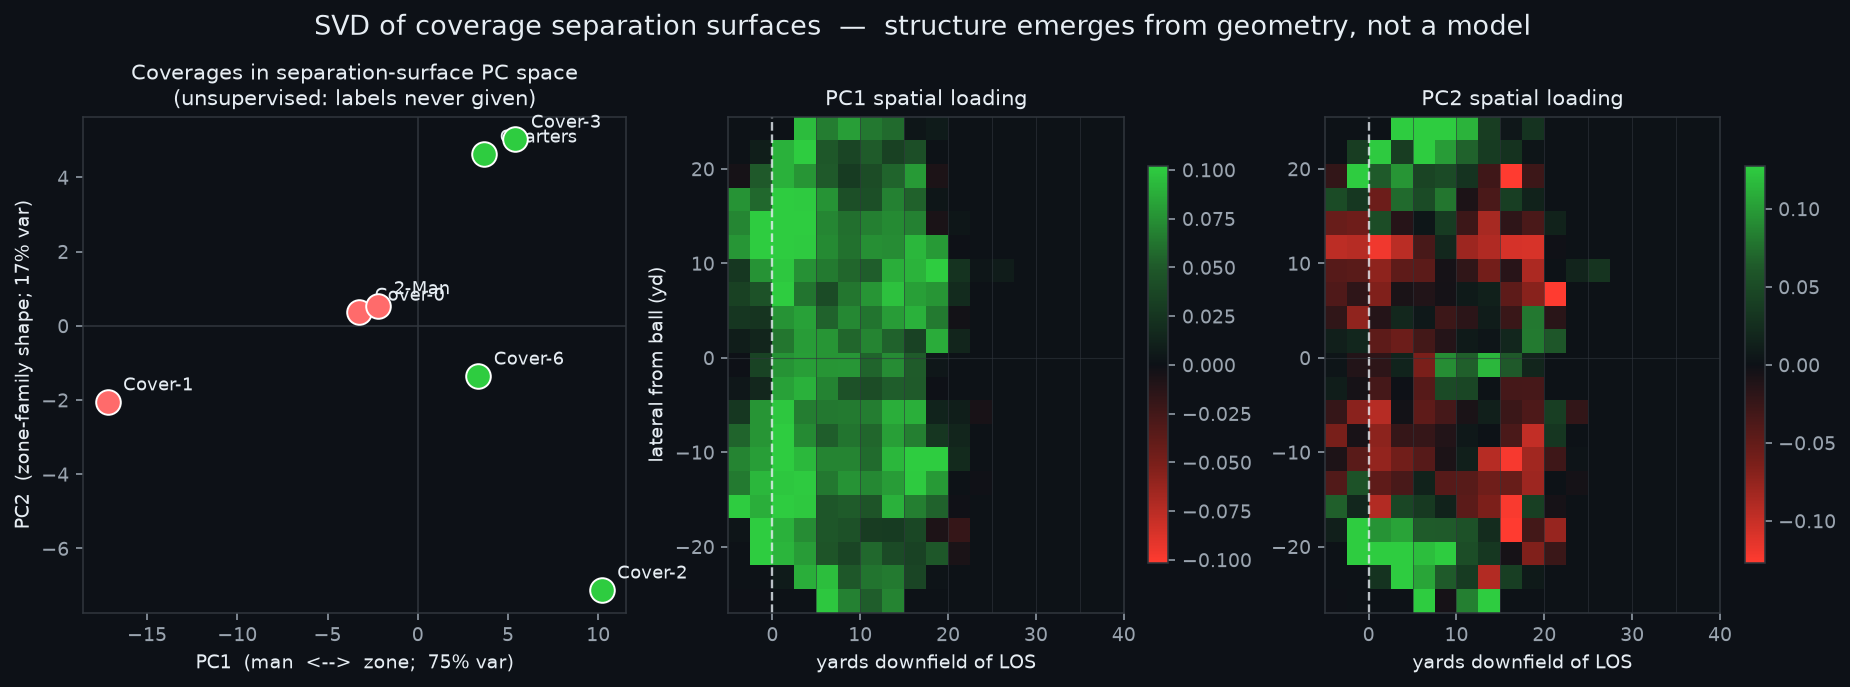
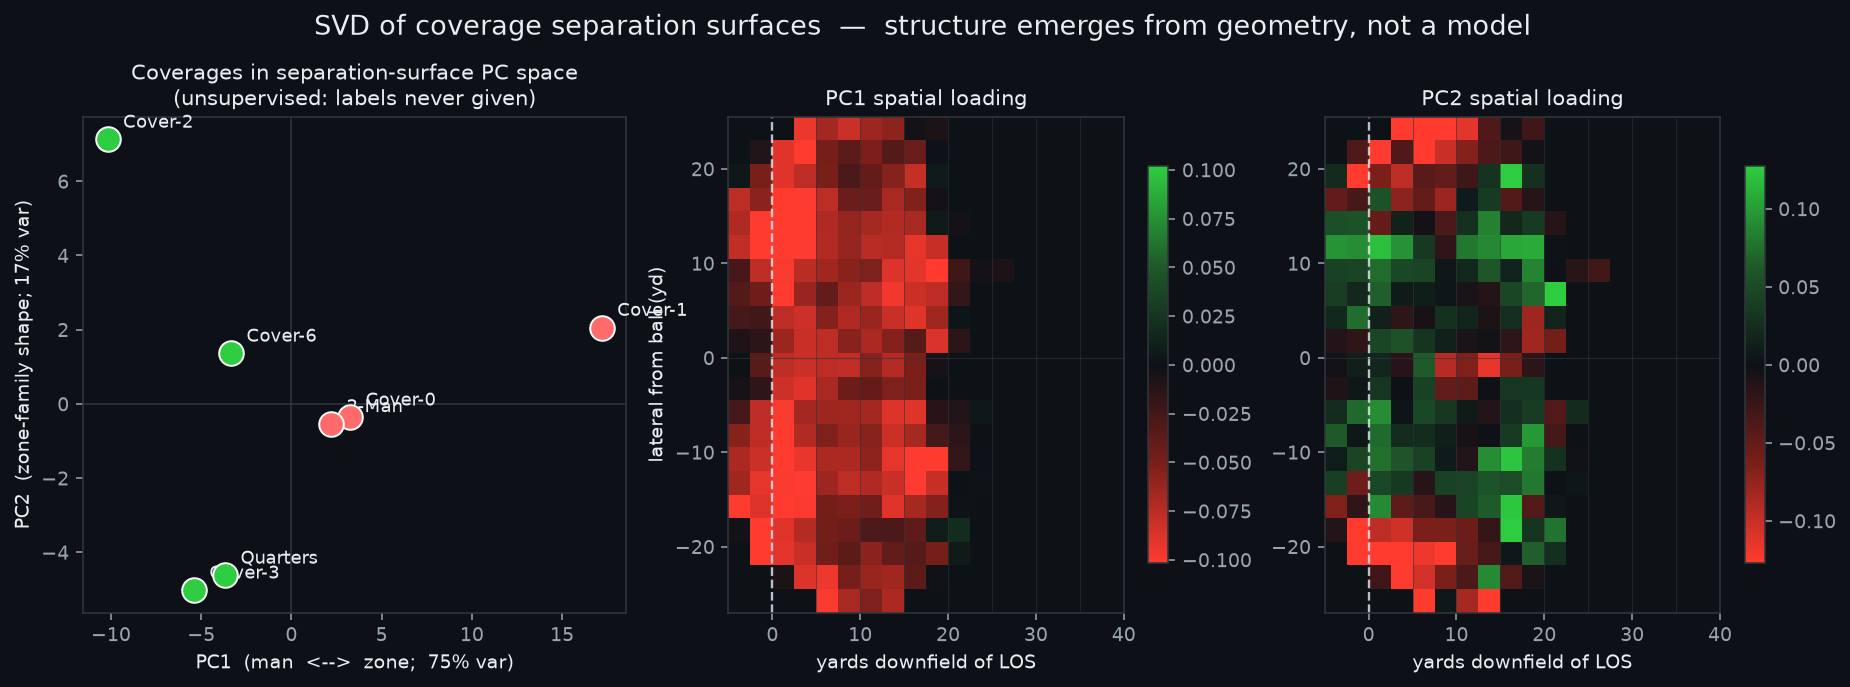
Fix Voronoi area double-count bug (caught by tests); add unit tests; honest UI (remove non-working toggles, add low-sample caveat)
- tests/ : 13 unit tests for geometry + surface metric
- geometry.controlled_area: stop duplicating target player (broke Voronoi partition); tests enforce exact conservation
- regenerated dataset, figures, web assets
- UI: Snap/Throw + unimplemented view modes were dead buttons -> replaced with static labels; added low-sample caveat for thin coverage x position splits

diff --git a/docs/index.html b/docs/index.html
@@ -53,6 +53,11 @@
   .opt.on .tick{background:var(--accent);border-color:var(--accent);
     box-shadow:0 0 0 3px rgba(54,224,122,.14)}
   .row{display:flex;flex-wrap:wrap;gap:6px}
+  .static-val{font-size:13px;font-weight:600;color:var(--ink)}
+  .static-val .hint{display:block;font-size:11px;font-weight:400;color:var(--dim);margin-top:3px;font-family:var(--mono)}
+  .lowsample{margin-top:14px;font-size:11px;color:var(--amber);font-family:var(--mono);
+    display:none;border-left:2px solid var(--amber);padding-left:10px;line-height:1.5}
+  .lowsample.show{display:block}
   .seg{padding:5px 11px;border:1px solid var(--line);border-radius:6px;
     font-size:12px;font-weight:600;color:var(--mut);cursor:pointer;transition:.12s;
     font-family:var(--body)}
@@ -134,10 +139,6 @@
   <!-- SIDEBAR -->
   <aside class="sidebar">
     <div class="grp">
-      <h4>View</h4>
-      <div id="views"></div>
-    </div>
-    <div class="grp">
       <h4>Coverage</h4>
       <div class="row" id="covs"></div>
     </div>
@@ -147,7 +148,11 @@
     </div>
     <div class="grp">
       <h4>Measured at</h4>
-      <div class="row" id="moment"></div>
+      <div class="static-val">Throw <span class="hint">(ball release)</span></div>
+    </div>
+    <div class="grp">
+      <h4>Metric</h4>
+      <div class="static-val">Separation Surplus <span class="hint">(σ vs league per zone)</span></div>
     </div>
   </aside>
 
@@ -162,6 +167,7 @@
       <img id="field" alt="soft-spot field"/>
     </div>
     <div class="legend"><span>denied</span><div class="legbar"></div><span>soft</span></div>
+    <div class="lowsample" id="lowsample"></div>
   </main>
 
   <!-- READOUT -->
@@ -202,19 +208,8 @@
 </footer>
 
 <script>
-let DATA=null, cov="Cover-3", skill="All", view="Soft-Spot Map", moment="Throw";
-const VIEWS=["Soft-Spot Map","The Window · 1 play","Raw Separation","SVD Components"];
-const MOMENTS=["Snap","Throw"];
+let DATA=null, cov="Cover-3", skill="All";
 
-function optRow(el,items,cur,on){
-  el.innerHTML="";
-  items.forEach(t=>{
-    const d=document.createElement("div");
-    d.className="opt"+(t===cur?" on":"");
-    d.innerHTML=`<span class="tick"></span><span>${t}</span>`;
-    d.onclick=()=>on(t); el.appendChild(d);
-  });
-}
 function segRow(el,items,cur,on){
   el.innerHTML="";
   items.forEach(t=>{
@@ -237,12 +232,15 @@ function render(){
     row.innerHTML=`<span class="pos">${k}</span><div class="track"><div class="fill" style="width:${100*bars[k]/mx}%"></div></div><span class="val">${bars[k]} yd</span>`;
     el.appendChild(row);
   });
+  // honest low-sample caveat
+  const ls=document.getElementById("lowsample");
+  if(v.low_sample){ls.className="lowsample show";
+    ls.textContent=`Small sample (${v.n.toLocaleString()} routes) — many zones fall below the ${8}-route display threshold, so this split is exploratory.`;
+  } else { ls.className="lowsample"; }
 }
 function refresh(){
-  optRow(document.getElementById("views"),VIEWS,view,t=>{view=t;refresh();});
   segRow(document.getElementById("covs"),DATA.coverages,cov,t=>{cov=t;refresh();});
   segRow(document.getElementById("skills"),DATA.skills,skill,t=>{skill=t;refresh();});
-  segRow(document.getElementById("moment"),MOMENTS,moment,t=>{moment=t;refresh();});
   render();
 }
 const q=new URLSearchParams(location.search);

diff --git a/tests/test_geometry.py b/tests/test_geometry.py
@@ -1,0 +1,111 @@
+"""
+Unit tests for the geometric core. These verify the MATH is correct independent
+of the data -- the foundation of the "positions and linear algebra, no model" claim.
+
+Run:  .venv/bin/python -m pytest tests/ -q
+"""
+import numpy as np
+import pandas as pd
+import pytest
+
+from src import geometry as geo
+
+
+# ----------------------------- velocity vectors -----------------------------
+def test_velocity_magnitude_equals_speed():
+    """||v|| must equal the scalar speed for any direction (angle convention check)."""
+    speeds = np.array([0.0, 1.0, 3.7, 9.4])
+    dirs = np.array([0.0, 90.0, 180.0, 275.3])
+    v = geo.velocity_vectors(speeds, dirs)
+    np.testing.assert_allclose(np.linalg.norm(v, axis=1), speeds, atol=1e-9)
+
+
+def test_velocity_direction_convention():
+    """dir=0 -> +y ; dir=90 -> +x  (NFL BDB clockwise-from-+y convention)."""
+    v0 = geo.velocity_vectors(np.array([1.0]), np.array([0.0]))[0]
+    v90 = geo.velocity_vectors(np.array([1.0]), np.array([90.0]))[0]
+    np.testing.assert_allclose(v0, [0.0, 1.0], atol=1e-9)
+    np.testing.assert_allclose(v90, [1.0, 0.0], atol=1e-9)
+
+
+# ----------------------------- separation -----------------------------------
+def test_separation_picks_nearest():
+    r = np.array([0.0, 0.0])
+    defs = np.array([[3.0, 0.0], [0.0, 1.0], [5.0, 5.0]])
+    dist, idx, vec = geo.separation(r, defs)
+    assert idx == 1                      # nearest is the (0,1) defender
+    assert dist == pytest.approx(1.0)
+    np.testing.assert_allclose(vec, [0.0, -1.0])   # receiver - nearest defender
+
+
+def test_separation_zero_when_coincident():
+    r = np.array([2.0, 2.0])
+    defs = np.array([[2.0, 2.0], [9.0, 9.0]])
+    dist, idx, _ = geo.separation(r, defs)
+    assert dist == pytest.approx(0.0) and idx == 0
+
+
+# ----------------------------- closing speed --------------------------------
+def test_closing_speed_sign():
+    """Positive when the gap opens, negative when the defender closes."""
+    sep_vec = np.array([2.0, 0.0])             # receiver east of defender
+    opening = geo.closing_speed(sep_vec, np.array([1.0, 0.0]))   # rel vel pushes apart
+    closing = geo.closing_speed(sep_vec, np.array([-1.0, 0.0]))  # rel vel closes
+    assert opening > 0 and closing < 0
+    assert opening == pytest.approx(1.0) and closing == pytest.approx(-1.0)
+
+
+# ----------------------------- normalization --------------------------------
+def test_normalize_flips_left_plays():
+    df = pd.DataFrame({
+        "x": [10.0, 110.0], "y": [10.0, 43.3],
+        "dir": [0.0, 90.0], "o": [0.0, 90.0],
+        "playDirection": ["left", "right"],
+    })
+    out = geo.normalize_play_direction(df)
+    # left play flips: x -> 120-x, y -> 53.3-y, angle -> (a+180)%360
+    assert out.loc[0, "x"] == pytest.approx(110.0)
+    assert out.loc[0, "y"] == pytest.approx(43.3)
+    assert out.loc[0, "dir"] == pytest.approx(180.0)
+    # right play unchanged
+    assert out.loc[1, "x"] == pytest.approx(110.0)
+    assert out.loc[1, "dir"] == pytest.approx(90.0)
+
+
+# ----------------------------- controlled area (Voronoi) --------------------
+def _grid_region_area(pts, res=0.5, depth_band=15.0):
+    """Replicate the function's inclusive grid to compute the true total area."""
+    x_lo = max(0.0, pts[:, 0].min() - depth_band)
+    x_hi = min(geo.FIELD_X, pts[:, 0].max() + depth_band)
+    gx = np.arange(x_lo, x_hi + 1e-9, res)
+    gy = np.arange(0.0, geo.FIELD_Y + 1e-9, res)
+    return len(gx) * len(gy) * res * res
+
+
+def test_controlled_area_partition_conserves():
+    """Each player's cell areas must sum to the gridded field region (partition)."""
+    pts = np.array([[40, 10], [45, 20], [50, 40], [43, 27], [60, 27],
+                    [38, 15], [55, 35], [48, 25]], dtype=float)
+    areas = [geo.controlled_area(pts[i], pts, grid_res=0.5, depth_band=15) for i in range(len(pts))]
+    # CONSERVATION: every grid cell owned by exactly one player, so the per-player
+    # areas sum EXACTLY to the gridded region (no double-counting). This also guards
+    # against the target-duplication bug.
+    assert sum(areas) == pytest.approx(_grid_region_area(pts), rel=1e-9)
+    assert all(a >= 0 for a in areas)
+
+
+def test_controlled_area_field_bounded():
+    """A lone player owns the whole gridded region, but no more (field-bounded)."""
+    pts = np.array([[60.0, 26.65]])
+    area = geo.controlled_area(pts[0], pts, grid_res=0.5, depth_band=15)
+    assert area == pytest.approx(_grid_region_area(pts), rel=1e-6)
+
+
+def test_voronoi_ownership_sign():
+    """ownership>0 where offense is nearer than defense."""
+    grid = np.array([[41.0, 27.0], [59.0, 27.0]])
+    off = np.array([[40.0, 27.0]])
+    deff = np.array([[60.0, 27.0]])
+    own = geo.voronoi_ownership(grid, off, deff)
+    assert own[0] > 0      # near offense
+    assert own[1] < 0      # near defense

diff --git a/tests/test_surface.py b/tests/test_surface.py
@@ -1,0 +1,57 @@
+"""
+Unit tests for the spatial aggregation + soft-spot metric.
+Verifies Separation Surplus is computed correctly on controlled synthetic data.
+"""
+import numpy as np
+import pandas as pd
+import pytest
+
+from src import surface as S
+
+
+def _synth():
+    """Two coverages, same zone. Cov-A gets 5 yd separation, Cov-B gets 1 yd.
+    All routes placed in one depth/lateral bin so the zone math is checkable."""
+    rows = []
+    for _ in range(50):
+        rows.append({"depth": 8.0, "lateral": 0.0, "separation": 5.0, "pff_passCoverage": "A"})
+        rows.append({"depth": 8.0, "lateral": 0.0, "separation": 1.0, "pff_passCoverage": "B"})
+    return pd.DataFrame(rows)
+
+
+def test_surface_mean_and_count():
+    df = _synth()
+    mean, cnt, xe, ye = S.surface(df)
+    # the one occupied cell should hold the overall mean (3.0) and full count (100)
+    occupied = np.isfinite(mean)
+    assert cnt[occupied].sum() == 100
+    assert mean[occupied][0] == pytest.approx(3.0)
+
+
+def test_min_cell_threshold_masks_sparse():
+    df = _synth().head(3)              # only 3 routes -> below MIN_CELL (8)
+    mean, cnt, _, _ = S.surface(df)
+    assert not np.isfinite(mean).any()   # all masked
+
+
+def test_zscore_sign_and_symmetry():
+    """Cov-A (above league) -> positive z; Cov-B (below) -> negative; symmetric."""
+    df = _synth()
+    za, _, _, _ = S.zscore_softspot_surface(df, "A")
+    zb, _, _, _ = S.zscore_softspot_surface(df, "B")
+    a = za[np.isfinite(za)]
+    b = zb[np.isfinite(zb)]
+    assert a.size and b.size
+    assert (a > 0).all()
+    assert (b < 0).all()
+    # league mean is 3, std is 2 (values 5 and 1) -> A is +1σ, B is -1σ
+    assert a[0] == pytest.approx(1.0, abs=1e-6)
+    assert b[0] == pytest.approx(-1.0, abs=1e-6)
+
+
+def test_zone_std_nonnegative():
+    df = _synth()
+    std, _, _, _ = S.zone_std_surface(df)
+    finite = std[np.isfinite(std)]
+    assert (finite >= 0).all()
+    assert finite[0] == pytest.approx(2.0, abs=1e-6)   # std of {5,1} = 2

diff --git a/src/geometry.py b/src/geometry.py
@@ -141,24 +141,19 @@ def controlled_area(target_xy: np.ndarray,
     Returns area in square yards.
     """
     eff_all = _effective_positions(all_xy, all_vel, tau)
-    eff_tgt = _effective_positions(target_xy[None, :],
-                                   None if target_vel is None else target_vel[None, :],
-                                   tau)[0]
-    # identify target row in all_xy by exact position match (pre-shift)
-    # safer: append target explicitly and treat as index 0
-    pts_players = np.vstack([eff_tgt[None, :], eff_all])
+    # locate the target WITHIN all_xy (do not duplicate it, or it wins ties twice
+    # and breaks the Voronoi partition). Match on the original (pre-shift) position.
+    tgt_idx = int(np.argmin(np.linalg.norm(all_xy - target_xy[None, :], axis=1)))
 
     # grid bounds: field width, local depth band around players
     x_lo = max(0.0, all_xy[:, 0].min() - depth_band)
     x_hi = min(FIELD_X, all_xy[:, 0].max() + depth_band)
-    y_lo = max(0.0 + 0.0, 0.0)
-    y_hi = FIELD_Y
     gx = np.arange(x_lo, x_hi + 1e-9, grid_res)
-    gy = np.arange(y_lo, y_hi + 1e-9, grid_res)
+    gy = np.arange(0.0, FIELD_Y + 1e-9, grid_res)
     GX, GY = np.meshgrid(gx, gy)
     P = np.stack([GX.ravel(), GY.ravel()], axis=1)           # (N,2)
 
-    d = np.linalg.norm(P[:, None, :] - pts_players[None, :, :], axis=2)  # (N, k+1)
-    owner = d.argmin(axis=1)                                  # 0 == target
+    d = np.linalg.norm(P[:, None, :] - eff_all[None, :, :], axis=2)  # (N, k)
+    owner = d.argmin(axis=1)
     cell_area = grid_res * grid_res
-    return float((owner == 0).sum() * cell_area)
+    return float((owner == tgt_idx).sum() * cell_area)

diff --git a/src/build_web.py b/src/build_web.py
@@ -145,13 +145,15 @@ def main():
             render_field(z, xe, ye, f"{OUT}/{img}")
             spot = top_softspot(z, xe, ye)
             sub = df[(df.pff_passCoverage == cov) & _skill_mask(df, sk)]
+            n = int(len(sub))
             data["views"][key] = {
                 "img": img,
-                "n": int(len(sub)),
-                "avg_sep": round(float(sub.separation.mean()), 2) if len(sub) else None,
-                "call": make_call(cov, sk, spot, sub.separation.mean() if len(sub) else 0),
+                "n": n,
+                "avg_sep": round(float(sub.separation.mean()), 2) if n else None,
+                "call": make_call(cov, sk, spot, sub.separation.mean() if n else 0),
                 "top_depth": round(spot[0], 1) if spot else None,
                 "top_val": round(spot[2], 2) if spot else None,
+                "low_sample": n < 250,   # flag thin splits so the UI can caveat honestly
             }
         # skill bars for this coverage (avg sep)
         bars = {}
